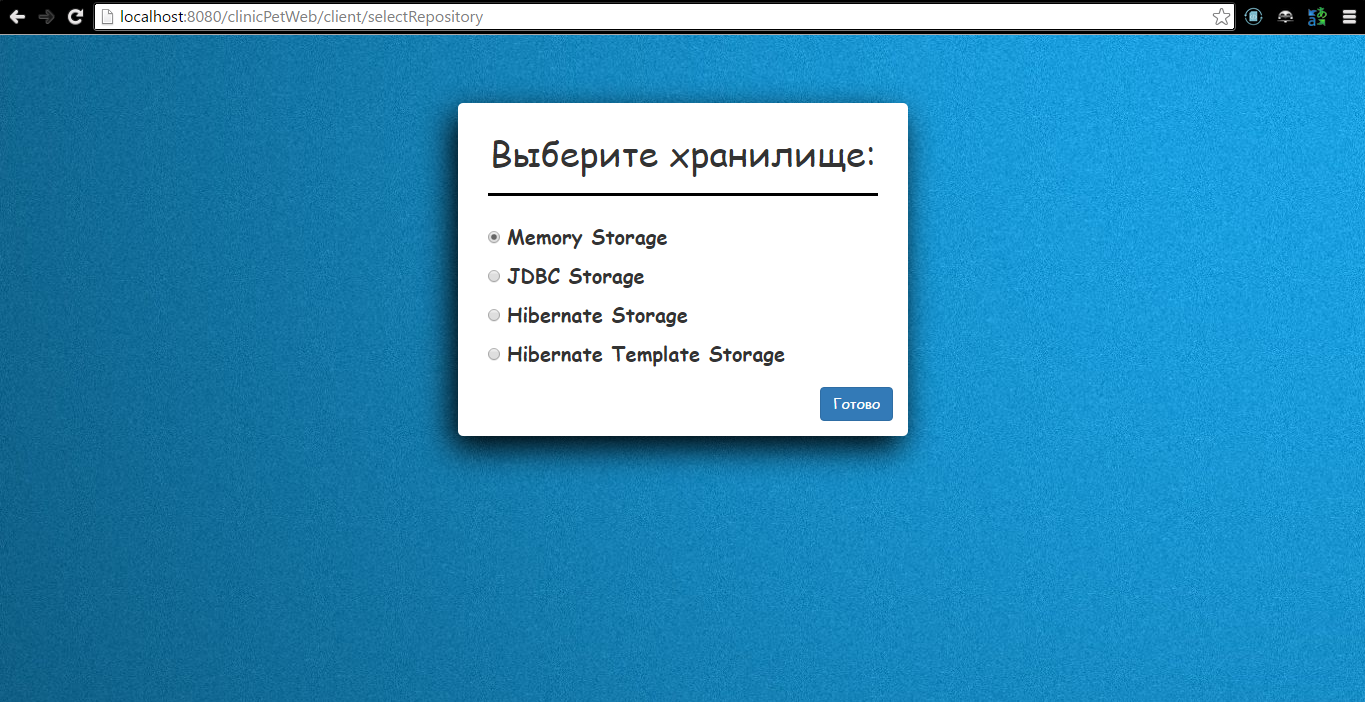
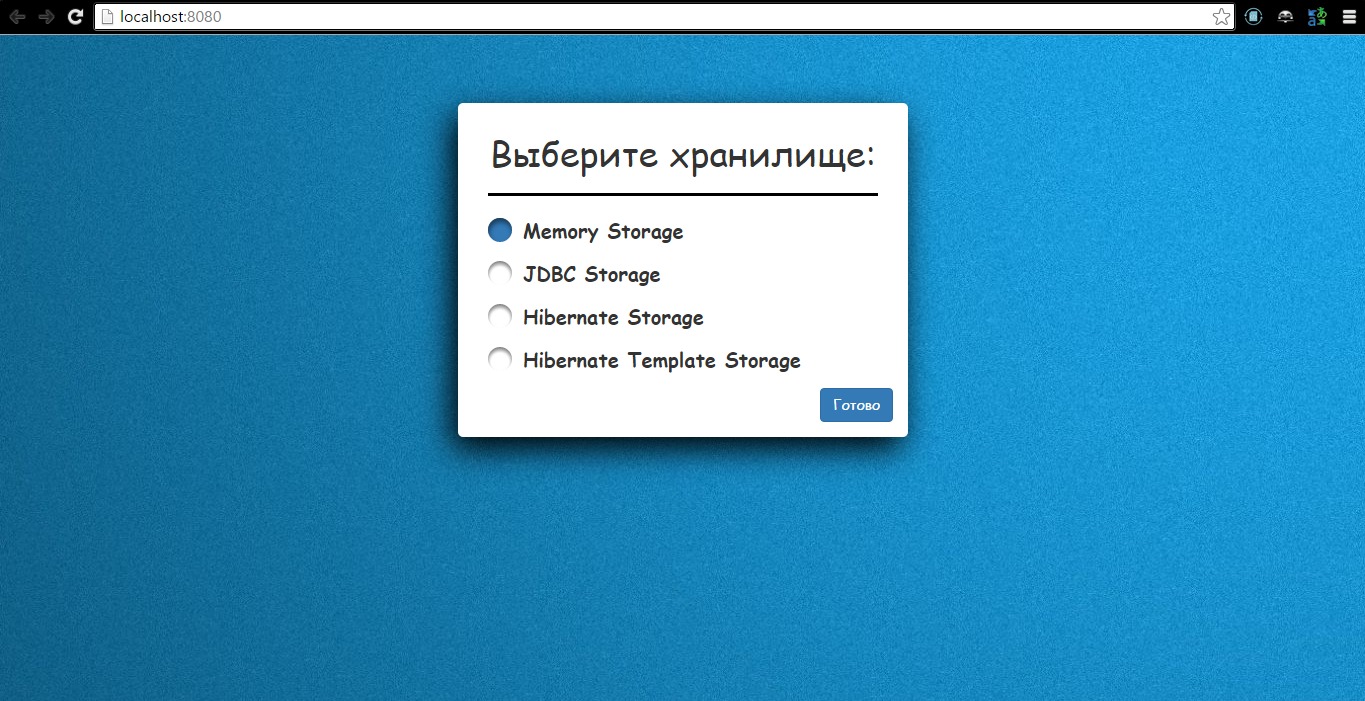
Добавлена страница выбора уровня логов. Исправлены некоторые недоработки. Немного улучшен код. Добавлены новые скрины.

diff --git a/ClinicPetWeb/src/main/webapp/resources/css/selectLoggingStyle.css b/ClinicPetWeb/src/main/webapp/resources/css/selectLoggingStyle.css
@@ -1,0 +1,73 @@
+body {
+    background: url("../img/fons/jpg2.jpg") fixed;
+
+    font-family: Cursive, Comic Sans MS, sans-serif;
+    font-weight: bold;
+}
+
+.container {
+    background-color: #fff;
+    padding: 10px 15px 10px 15px;
+    width: 450px;
+    margin-top: 5%;
+    margin-bottom: 5%;
+    -webkit-border-radius: 5px;
+    -moz-border-radius: 5px;
+    border-radius: 5px;
+    -webkit-box-shadow: -6px 12px 50px black;
+    -moz-box-shadow: -6px 12px 50px black;
+    box-shadow: -6px 12px 50px black;
+}
+
+hr {
+    margin: 45px 15px 20px 15px;
+    border: 0;
+    border-top: 3px solid black;
+}
+
+header {
+    height: 45px;
+    font-family: Cursive, Comic Sans MS, sans-serif;
+    padding-bottom: 14px;
+}
+
+header > h1 {
+    text-align: center;
+}
+
+button {
+    width: 100%;
+}
+
+.column {
+    column-count: 2;
+    -webkit-column-count: 2;
+    -moz-column-count: 2;
+
+    column-gap: 20px;
+    -webkit-column-gap: 20px;
+    -moz-column-gap: 20px;
+
+    column-rule: 1px solid #000;
+    -webkit-column-rule: 1px solid #000;
+    -moz-column-rule: 1px solid #000;
+
+    font-size: 30px;
+    text-align: center;
+}
+
+#info {
+    color: green;
+}
+
+#warn {
+    color: darkgoldenrod;
+}
+
+#error {
+    color: red;
+}
+
+#fatal {
+    color: darkred;
+}

diff --git a/ClinicPetWeb/src/main/webapp/resources/css/selectRepositoryStyle.css b/ClinicPetWeb/src/main/webapp/resources/css/selectRepositoryStyle.css
@@ -6,7 +6,7 @@ body {
 }
 
 .container {
-    background-color: #fff;
+    background-color: rgba(255,255,255,1);
     padding: 10px 15px 15px 15px;
     width: 450px;
     margin-top: 5%;
@@ -26,6 +26,7 @@ hr {
 }
 
 header {
+    margin: 0 0 0 0;
     height: 45px;
     font-family: Cursive, Comic Sans MS, sans-serif;
     padding-bottom: 14px;
@@ -89,7 +90,7 @@ input[type="radio"]:not(checked) + label:after {
     left: 0;
     width: 24px;
     height: 24px;
-    background: #337AB7;
+    background: rgba(51,122,183,1);
     box-shadow: inset 1px 4px 6px rgba(0,0,0,.5);
     opacity: 0;
 
@@ -114,17 +115,4 @@ input[type="radio"]:checked + label:after {
 
 input[type="submit"] {
     float: right;
-}
-
-ul {
-    padding: 0;
-}
-
-ul > li {
-    font-size: 20px;
-    list-style-type: none;
-    text-align: center;
-    border: 3px solid black;
-    margin: 0 0 5px 0;
-    padding: 25px 0 25px 0;
 }

diff --git a/ClinicPetWeb/src/main/java/ru/clinicPetWeb/servlets/SelectRepositoryServlet.java b/ClinicPetWeb/src/main/java/ru/clinicPetWeb/servlets/SelectRepositoryServlet.java
@@ -19,11 +19,11 @@ public class SelectRepositoryServlet extends HttpServlet {
 
     private final ClientCache CLIENT_CACHE = ClientCache.getInstance();
 
-    private static final String PAGE_OK = "/resources/views/selectRepository.jsp";
+    private static final String PAGE_OK = "/views/selectRepository.jsp";
 
     public static final String URL_PAGE_INDEX = "/client/index";
 
-    public static final String URL_PAGE_REPOSITORY = "/selectRepository";
+    public static final String URL_PAGE_REPOSITORY = "/";
 
     private static final Logger logger = Logger.getLogger(ClassName.getCurrentClassName());
 
@@ -53,7 +53,7 @@ public class SelectRepositoryServlet extends HttpServlet {
 
     public DBTool configurationIoC() {
         // Передаем конфигурации спринга
-        ApplicationContext context = new ClassPathXmlApplicationContext("WEB-INF/dispatcher-servlet.xml");
+        ApplicationContext context = new ClassPathXmlApplicationContext("dispatcher-servlet.xml");
         // Получаем бин с помощью спринга, для работы со всеми реализованными хранилищами
         Storages storages = context.getBean(Storages.class);
         // Передаем в параметры конструктора класс со списком всех хранилищ

diff --git a/ClinicPetWeb/src/main/java/ru/clinicPetWeb/controllers/AdminController.java b/ClinicPetWeb/src/main/java/ru/clinicPetWeb/controllers/AdminController.java
@@ -2,6 +2,8 @@ package ru.clinicPetWeb.controllers;
 
 import org.apache.log4j.Logger;
 import org.springframework.beans.factory.annotation.Autowired;
+import org.springframework.context.ApplicationContext;
+import org.springframework.context.support.ClassPathXmlApplicationContext;
 import org.springframework.stereotype.Controller;
 import org.springframework.ui.ModelMap;
 import org.springframework.web.bind.annotation.ModelAttribute;
@@ -33,7 +35,8 @@ public class AdminController {
     public static final String PAGE_EDIT = "/client/edit";
     public static final String PAGE_SEARCH = "/client/search";
 
-    public static final String PAGE_LOGGING = "/logging/log4j_html_info.html";
+    // Полный путь для удобства. Если произойдет переключение со Spring MVC на сервлеты.
+    public static final String PAGE_LOGGING = "/views/selectLevelLogging.jsp";
 
     public static final String ACTION_DELETE = "/client/delete";
 

diff --git a/ClinicPetWeb/src/main/java/ru/clinicPetWeb/tools/DBTool.java b/ClinicPetWeb/src/main/java/ru/clinicPetWeb/tools/DBTool.java
@@ -34,7 +34,7 @@ public class DBTool {
         Scanner sc = new Scanner(System.in);
 
         // Передаем конфигурации спринга
-        ApplicationContext context = new ClassPathXmlApplicationContext("WEB-INF/spring-context.xml");
+        ApplicationContext context = new ClassPathXmlApplicationContext("dispatcher-servlet.xml");
         // Получаем бин с помощью спринга, для работы со всеми реализованными хранилищами
         Storages storage = context.getBean(Storages.class);
         // Передаем в параметры конструктора бин и в нём же вызываем метод, для выбора хранилища

diff --git a/ClinicPetWeb/src/main/java/ru/clinicPetWeb/servlets/IndexServlet.java b/ClinicPetWeb/src/main/java/ru/clinicPetWeb/servlets/IndexServlet.java
@@ -19,8 +19,8 @@ public class IndexServlet extends HttpServlet {
     private final ClientCache CLIENT_CACHE = ClientCache.getInstance();
 
     public static final String ATTRIBUTE_MODEL_TO_VIEW = "clients";
-    public static final String PAGE_OK = "/resources/views/client/index.jsp";
-    public static final String PAGE_ERROR = "/resources/views/notFound.jsp";
+    public static final String PAGE_OK = "/views/client/index.jsp";
+    public static final String PAGE_ERROR = "/views/notFound.jsp";
 
     public static final String URL_PAGE_INDEX = "/client/index";
 

diff --git a/ClinicPetWeb/src/main/java/ru/clinicPetWeb/servlets/ClientSearchServlet.java b/ClinicPetWeb/src/main/java/ru/clinicPetWeb/servlets/ClientSearchServlet.java
@@ -16,7 +16,7 @@ public class ClientSearchServlet extends HttpServlet {
     private final ClientCache CLIENT_CACHE = ClientCache.getInstance();
 
     public static final String ATTRIBUTE_MODEL_TO_SEARCH = "found";
-    public static final String PAGE_SEARCH_JSP = "/resources/views/client/search.jsp";
+    public static final String PAGE_SEARCH_JSP = "/views/client/search.jsp";
 
     public static final String URL_PAGE_INDEX = "/client/index";
     public static final String URL_PAGE_SEARCH = "/client/search";

diff --git a/ClinicPetWeb/src/main/java/ru/clinicPetWeb/servlets/ClientEditServlet.java b/ClinicPetWeb/src/main/java/ru/clinicPetWeb/servlets/ClientEditServlet.java
@@ -17,7 +17,7 @@ public class ClientEditServlet extends HttpServlet {
 	private final ClientCache CLIENT_CACHE = ClientCache.getInstance();
 
     public static final String ATTRIBUTE_MODEL_TO_EDIT = "clients";
-    public static final String PAGE_EDIT_JSP = "/resources/views/client/edit.jsp";
+    public static final String PAGE_EDIT_JSP = "/views/client/edit.jsp";
 
     public static final String URL_PAGE_INDEX = "/client/index";
 

diff --git a/ClinicPetWeb/src/test/java/ru/clinicPetWeb/store/StoragesTest.java b/ClinicPetWeb/src/test/java/ru/clinicPetWeb/store/StoragesTest.java
@@ -9,7 +9,7 @@ import org.springframework.test.context.junit4.SpringJUnit4ClassRunner;
 import static org.junit.Assert.*;
 
 @RunWith(SpringJUnit4ClassRunner.class)
-@ContextConfiguration(locations = {"file:src/main/webapp/WEB-INF/dispatcher-servlet.xml"})
+@ContextConfiguration(locations = {"classpath:dispatcher-servlet.xml"})
 public class StoragesTest {
 
     @Autowired

diff --git a/ClinicPetWeb/README.md b/ClinicPetWeb/README.md
@@ -108,26 +108,14 @@
 
 ----------------------------------------------------------
 
-***Также в проекте частично был использован Bootstrap 3***
+***Также в проекте был немного использован Bootstrap 3***
 
 ----------------------------------------------------------
 
 ## Логи
 
-#### Ссылка сразу на все логи имеющие уровень INFO и выше:
+#### Страница с выбором уровня логов:
 
-![CC0](https://github.com/Panchenko-Vlad/java-lessons/blob/master/ClinicPetWeb/src/main/java/Screenshots/logging1.png)
-
-#### Логи уровня WARN и выше: (пусто)
-
-![CC0](https://github.com/Panchenko-Vlad/java-lessons/blob/master/ClinicPetWeb/src/main/java/Screenshots/logging2.png)
-
-#### Логи уровня ERROR и выше: (пусто)
-
-![CC0](https://github.com/Panchenko-Vlad/java-lessons/blob/master/ClinicPetWeb/src/main/java/Screenshots/logging3.png)
-
-#### Логи уровня FATAL: (пусто)
-
-![CC0](https://github.com/Panchenko-Vlad/java-lessons/blob/master/ClinicPetWeb/src/main/java/Screenshots/logging4.png)
+![CC0](https://github.com/Panchenko-Vlad/java-lessons/blob/master/ClinicPetWeb/src/main/java/Screenshots/logging.png)
 
 # Конец
